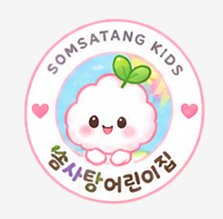
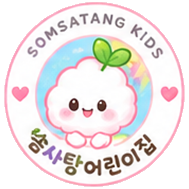
Cut mascot art to transparent PNGs and restore the full hero card
- Remove the white card background from all mascot images via
  border-flood-fill, trimmed to the character's bounding box.
- Circle-mask the chat badge specifically.
- Enlarge the nav/footer logo mark.
- Restore the hero illustration to the full quote card (now
  transparent) per feedback, instead of the cropped mascot-only crop.

diff --git a/index.html b/index.html
@@ -100,7 +100,7 @@ section { padding: 120px 0; position: relative; }
   color: #fff; font-family: var(--font-accent); font-size: 18px;
   box-shadow: var(--shadow-sm); flex-shrink: 0;
 }
-.brand-logo-img { height: 38px; width: auto; display: block; flex-shrink: 0; }
+.brand-logo-img { height: 58px; width: auto; display: block; flex-shrink: 0; }
 /* hero 위에서는 흰색으로 */
 .nav:not(.scrolled) .brand { color: #fff; }
 .nav:not(.scrolled) .nav-links a { color: rgba(255,255,255,0.85); }
@@ -227,18 +227,13 @@ section { padding: 120px 0; position: relative; }
 }
 .hero-ctas { display: flex; gap: 14px; margin-top: 32px; flex-wrap: wrap; }
 .hero-illustration { display: flex; justify-content: center; }
-.hero-mascot-crop {
-  width: 241px; height: 300px; overflow: hidden; border-radius: var(--radius-lg);
-  position: relative; box-shadow: var(--shadow-lg); background: var(--card);
-}
-.hero-mascot-crop img {
-  position: absolute; top: 0; left: -345px; width: 586px; height: 300px; max-width: none;
+.hero-quote-card {
+  width: 100%; max-width: 420px; display: block;
+  filter: drop-shadow(0 18px 30px rgba(0,0,0,0.22));
 }
 @media (max-width: 900px) {
   .hero-grid { grid-template-columns: 1fr; }
-  .hero-illustration { order: -1; }
-  .hero-mascot-crop { width: 193px; height: 240px; }
-  .hero-mascot-crop img { left: -276px; width: 469px; height: 240px; }
+  .hero-illustration { order: -1; max-width: 280px; margin: 0 auto; }
 }
 .hero-scroll {
   position: absolute; bottom: 36px; left: 50%;
@@ -611,9 +606,7 @@ footer { padding: 64px 0 40px; border-top: 1px solid var(--line); margin-top: 80
         </div>
       </div>
       <div class="hero-illustration">
-        <div class="hero-mascot-crop">
-          <img src="images/mascot-quote.png" alt="솜사탕어린이집 마스코트">
-        </div>
+        <img src="images/mascot-quote.png" alt="작은 설탕 알갱이가 솜사탕으로 피어나듯, 아이들의 작은 가능성이 사랑을 만나 아름답게 성장한다" class="hero-quote-card">
       </div>
     </div>
   </div>
